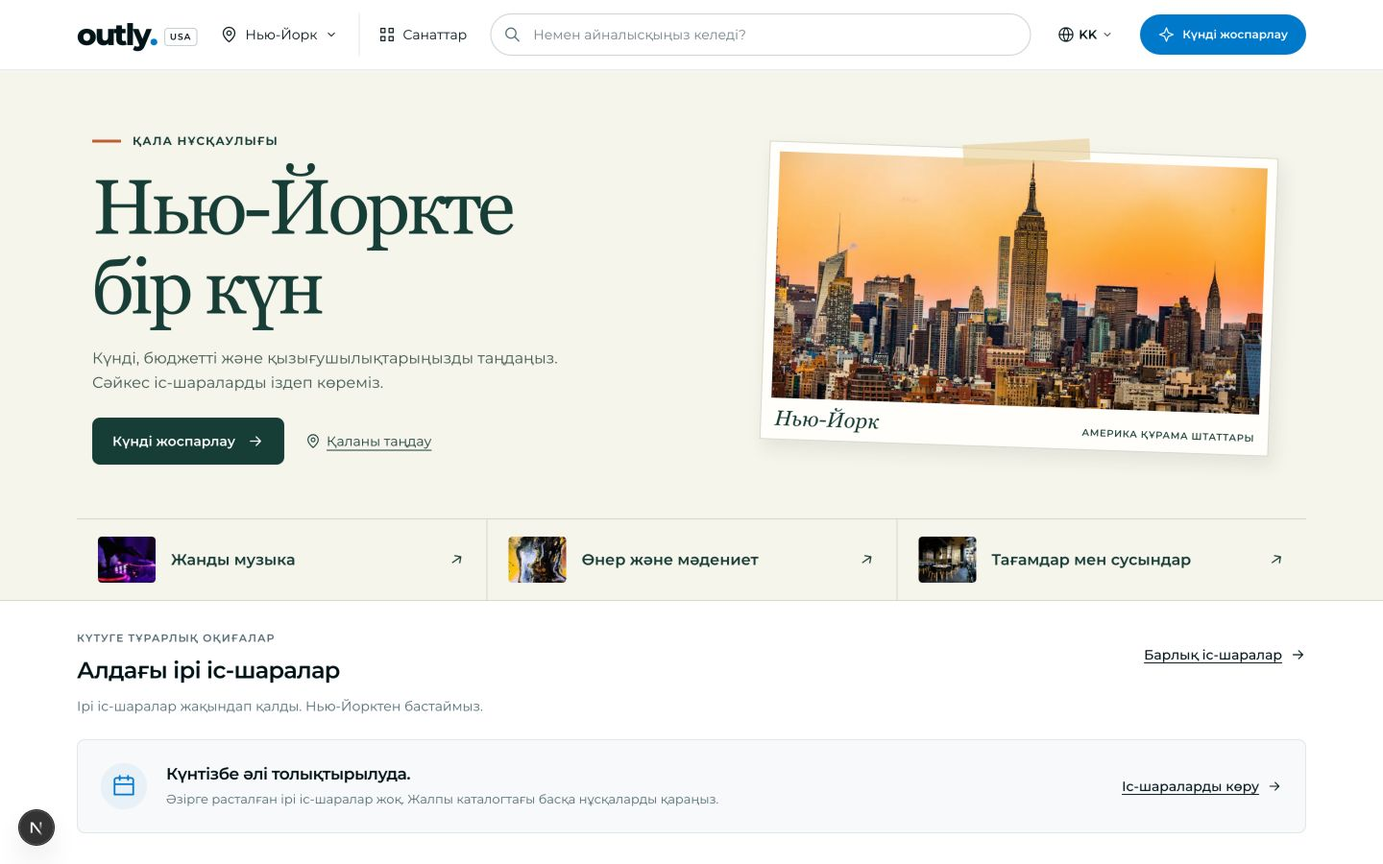
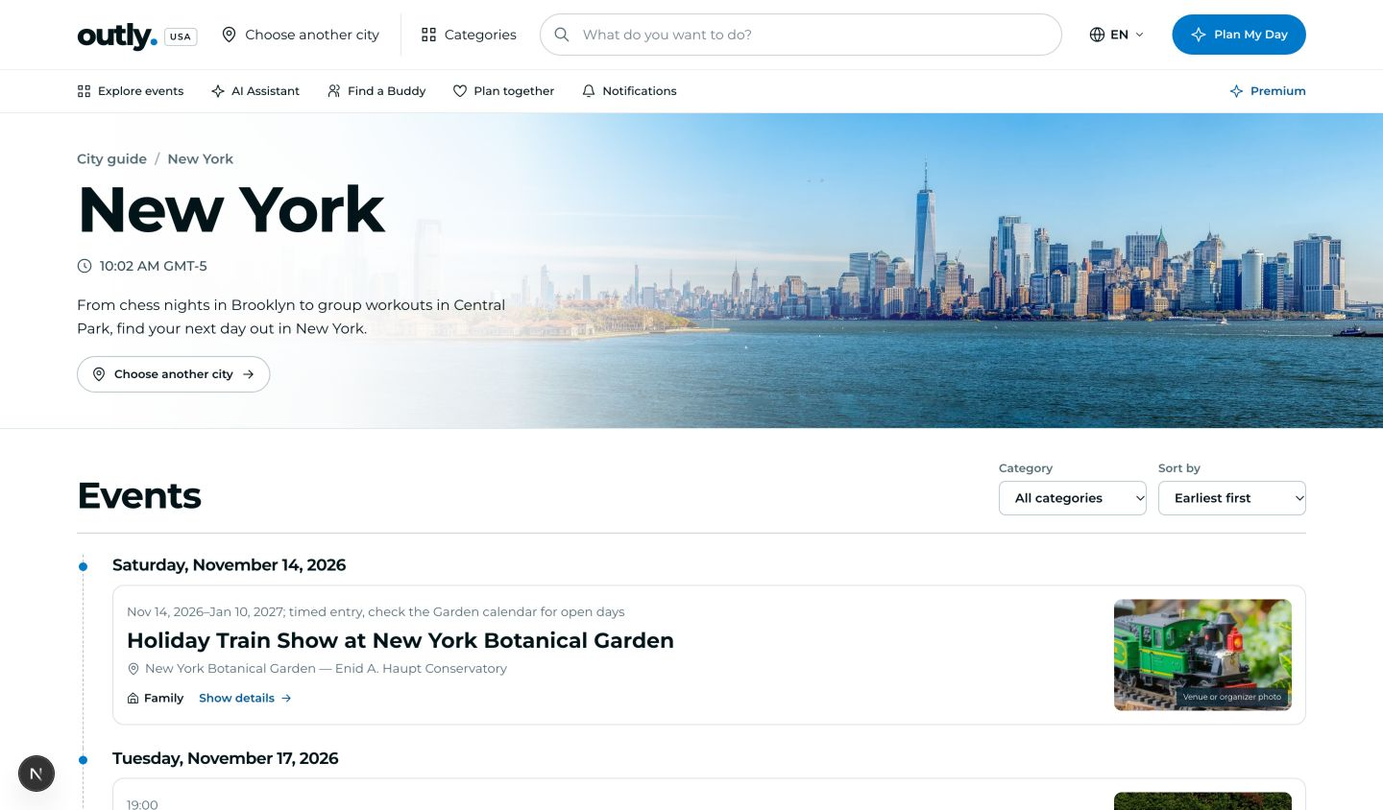
docs: document MVP2 flows and refresh screenshots

diff --git a/frontend/docs/mvp2.md b/frontend/docs/mvp2.md
@@ -1,0 +1,56 @@
+# MVP 2.0 — совместные планы и уведомления
+
+Реализованы четыре гостевых сценария из технического задания: подбор по тексту, Event Buddy, Pair Planning и Premium alerts. Интерфейс использует существующие цвета, Montserrat, карточки и кнопки проекта. Русский остаётся языком по умолчанию; доступны английский и казахский.
+
+## Как проверить
+
+Запустите `npm run dev`, откройте `/premium` и нажмите Try Premium Demo. Оплата не подключена: тариф $9.99/month показан как проверяемая гипотеза, демо не списывает деньги и не продлевается. Доступ проверяется сервером для каждой гостевой сессии.
+
+- `/assistant`: чат вместо формы фильтров. Напишите `NYC, free games this Thursday` — реальные события, ссылка на детали и официальная ссылка появляются сразу в ответе. Можно начать с `New York`, затем уточнить `games this Thursday` и `free only`: город, интересы, даты и бюджет сохраняются в контексте. Чат уточняет недостающие или неоднозначные условия, а при отсутствии совпадений честно предлагает изменить запрос. Enter отправляет, Shift+Enter добавляет строку. История сохраняется в текущей вкладке; New chat начинает новый диалог. Используется локальный разбор текста на английском, русском и казахском, без внешнего LLM. Гостю доступен один успешный чат за семь дней, Premium Demo — до 50 новых чатов за сутки. В одном чате можно получить до 30 подборок в течение 24 часов, уточнения не расходуют новую недельную попытку.
+- `/pair/new`: имя, New York, Games, даты на ближайшие 30 дней, любой бюджет и любое время. Создайте приглашение и откройте Open partner's window. Во втором окне укажите независимые предпочтения, поставьте Like на одном событии с обеих сторон. Итог сохраняется. Приглашение одноразовое, действует 48 часов, закрытие плана отзывает его. Без Premium можно создать один пробный план.
+- `/buddy`: выберите событие, создайте демо-заявку с подтверждением 18+. Во втором независимом окне включите Premium Demo, откройте то же событие, отправьте отклик. Автор может принять или отклонить его; участник — отменить отклик. Доступны закрытие, Report и Block. Реальных профилей, проверки личности и личных контактов нет; публичные email, телефоны, ссылки и social handles запрещены.
+- `/settings/alerts`: выберите Games, New York и Instant, сохраните. На `/notifications` нажмите Check new events. Проверенные события вводятся в отдельную демо-ленту, основной каталог не меняется. Совпадения создают уведомления с отметкой Demo; другая категория — нет. Повторная проверка не дублирует одно событие. Mark as read уменьшает счётчик, Pause alerts останавливает новые оповещения.
+
+Приглашение следует открывать в отдельной вкладке через предоставленную ссылку с `noopener` либо в другом браузере. В одной вкладке сохраняется одна роль. Если браузер запрещает sessionStorage, роль живёт в памяти до перезагрузки.
+
+В каталоге есть не все сочетания категорий, городов и дат. Например, Music + New York может вернуть пустой результат. Неизвестная цена не считается нулевой. Запись без подтверждённого времени не проходит конкретный фильтр morning/afternoon/evening. Пары используют пересечение дат и времени, меньший из двух бюджетов и только реальные ID каталога; несовпадение интересов отмечается как компромисс.
+
+## API и хранение
+
+Существующие `/api/events`, `/api/plan`, `/api/health` сохраняют интеграцию с `API_PROXY_ORIGIN`. Новые `/api/ai/*` и `/api/demo/*` обрабатываются локально; текущий внешний backend их не обязан поддерживать.
+
+Каталог принимает необязательный `GET /api/events?budgetMax=25` в USD: `0` — только известная бесплатная цена, отсутствие параметра — без ограничения. Фильтр применяется до пагинации вместе с городом, датой и категорией. Внешний events backend должен поддержать этот параметр при подключении через proxy; в SerpApi live-поиске выбор бюджета отключён.
+
+`POST /api/demo/session` выдаёт случайный токен. Браузер передаёт его в `Authorization: Bearer ...`, хранит в sessionStorage отдельной вкладки. На сервере сохраняется только хэш. Ответы имеют `Cache-Control: no-store`. Подписка, авторство заявок, участие в паре и право читать уведомления проверяются на сервере; изменение клиентского JS не выдаёт доступ. Ограничены размеры запросов, длина текстов и частота действий.
+
+Основные локальные API:
+
+| Путь | Действия |
+| --- | --- |
+| `/api/ai/chat` | POST сообщения с preferences, pendingFields и необязательным серверным conversationId; ответ с уточнениями или готовыми событиями |
+| `/api/ai/parse`, `/api/ai/recommend` | Сохранённые POST разбора и подбора для совместимости |
+| `/api/demo/subscription` | GET состояния; POST activate/deactivate |
+| `/api/demo/buddy/posts` | GET списка; POST публикации |
+| `/api/demo/buddy/posts/:id/requests` | POST отклика |
+| `/api/demo/buddy/requests/:id/decision` | POST ACCEPTED/DECLINED |
+| `/api/demo/buddy/requests/:id/cancel` | POST отмены |
+| `/api/demo/buddy/posts/:id/close`, `/api/demo/safety` | POST закрытия, жалобы или блокировки |
+| `/api/demo/pair/sessions`, `/api/demo/pair/join` | POST создания и присоединения |
+| `/api/demo/pair/:id`, `/votes`, `/close` | GET состояния; POST голосования/закрытия |
+| `/api/demo/alerts/preferences` | GET/PUT настроек |
+| `/api/demo/alerts/check` | POST проверки демо-ленты |
+| `/api/demo/notifications`, `/:id/read` | GET списка; PATCH прочтения |
+
+Демо-данные сохраняются атомарно в `.outly-demo/state.json`, каталог исключён из git. Для изолированных проверок можно задать `OUTLY_DEMO_DIR`. Это постоянное хранилище одного локального сервера с доступным для записи диском. Перед несколькими процессами или serverless-развёртыванием нужен общий транзакционный backend; JWT, Supabase Auth и реальная подписка здесь не имитируются.
+
+Daily/Weekly откладывают доставку на 24 часа/7 дней. После наступления срока уведомления видны при запросе центра уведомлений. Отдельного cron, email, Stripe и внешнего AI нет. При паузе или завершении Premium Demo отложенные доставки отменяются, уже доставленная история сохраняется. Интерфейс обновляет социальное состояние каждые пять секунд, счётчик уведомлений — каждые 15 секунд в активной вкладке.
+
+## Проверки
+
+`npm test`, `npm run typecheck`, `npm run build`. Тесты новых сценариев находятся в `tests/social.test.ts`, `tests/assistant.test.ts` и `tests/demo-api.test.ts`.
+
+Проверка 14 ноября 2026: 68 автоматических тестов прошли. В браузере пройдены текстовый поиск с реальным результатом, две независимые роли Pair и взаимный Like, публикация/отклик/принятие Buddy, сохранение настроек после reload, создание уведомления, отсутствие дубля и уменьшение unread count после прочтения. Проверены RU/KK переключение, все шесть новых разделов на 320px и бюджет каталога на 320/375/1440px; ошибок JavaScript и горизонтального скролла не обнаружено.
+
+После замены формы помощника на чат: 84 теста, production build и typecheck проходят. В браузере проверены диалог из нескольких сообщений, уточнение бюджета без второй недельной попытки, прямое открытие деталей события, официальные ссылки в ответе, сохранение истории, пустая выдача и повтор после сетевой ошибки без дублирования сообщения. Чат проверен на 320/375/768/1440px и при переключении RU/KK.
+
+Публикация, push, реальные платежи, email и подключение внешних аккаунтов не выполнялись.

diff --git a/frontend/README.md b/frontend/README.md
@@ -1,5 +1,7 @@
 # Outly USA Frontend
 
+MVP 2.0: добавлены текстовый Assistant, Event Buddy, совместные планы по приглашению, Premium Demo и персональные in-app уведомления. [Сценарии проверки, API и ограничения](docs/mvp2.md). Существующий каталог и Planner сохранены.
+
 Фронтенд MVP по ТЗ Business Cup: гость выбирает интересы, дату и бюджет в New York, получает рекомендации от API и переходит к деталям реальных событий. Next.js App Router, TypeScript, React и Tailwind CSS 4. Интерфейс доступен на русском (по умолчанию), английском и казахском. Язык можно сменить в шапке; выбор сохраняется в cookie. Названия и описания событий отображаются на языке источника.
 
 Реализован объём FE-01–FE-07: общие стили и навигация, главная, четырёхшаговый Planner, результаты, Explore с фильтрами и пагинацией, детали события, адаптивность и состояния loading / empty / error. Форму можно пройти без аккаунта; ошибки API сохраняют предпочтения и позволяют повторить запрос.
@@ -31,9 +33,9 @@ npm run dev
 
 ## Проверенный каталог
 
-`src/data/catalog.json` содержит 78 вручную проверенных событий и регулярных программ: 18 категорий, все 50 штатов, Washington DC и 60 городов. Проверка первоисточников — 14 ноября 2026. Вымышленные события из присланных demo-файлов не используются; из файла категорий сохранена таксономия с сопоставлением `games → gaming`, `food-drinks → food`, `arts-culture → art`.
+`src/data/catalog.json` содержит 82 вручную проверенных событий и регулярных программ: 18 категорий, все 50 штатов, Washington DC и 60 городов. Проверка первоисточников — 14 ноября 2026. Вымышленные события из присланных demo-файлов не используются; из файла категорий сохранена таксономия с сопоставлением `games → gaming`, `food-drinks → food`, `arts-culture → art`.
 
-У каждой записи есть официальный `sourceUrl`, `lastVerifiedAt`, `evidenceUrl` и краткое основание проверки `evidenceNote`. Все 78 изображений лежат в `public/catalog`; исходные ссылки сохранены в `imageSourceUrl`. Фото площадки, организатора или прошлой редакции помечаются `imageIsIllustration`. На карточке доступны внутренние детали и отдельная ссылка на официальный сайт.
+У каждой записи есть официальный `sourceUrl`, `lastVerifiedAt`, `evidenceUrl` и краткое основание проверки `evidenceNote`. Изображения каталога лежат в `public/catalog`; исходные ссылки сохранены в `imageSourceUrl`. Фото площадки, организатора или прошлой редакции помечаются `imageIsIllustration`. Нажатие на карточку открывает страницу события с официальной ссылкой.
 
 Фильтры идут в порядке категория → штат → город → дата. По умолчанию открыт весь каталог, поэтому каждая категория доступна без привязки к Нью-Йорку. Числа в списках показывают количество записей; в справочнике городов показываются только города с проверенными событиями. Washington DC доступен в списке отдельно от 50 штатов карты.
 
@@ -102,7 +104,7 @@ npm run build
 
 На главной доступны проверенные события, все 18 категорий и навигация «штат → город». Категории открывают весь каталог; карта и справочник — проверенные записи выбранного штата/города. Ограничение Coming soon для каталога удалено; live-поиск остаётся отдельной возможностью Нью-Йорка.
 
-После главного баннера блоки идут в порядке: проверенные события → категории событий → интерактивная карта США. На карте подписаны все 50 штатов; Alaska / Hawaii показаны отдельными вставками. Карта и фильтр штата синхронизированы: выбор обновляет готовый список городов и сбрасывает фильтр города на «Все города». Выбор конкретного города оставляет в каталоге только его карточку. Штаты доступны мышью и клавишами Enter / Space; на узких экранах карту можно прокручивать горизонтально или пользоваться фильтром. Контуры сохранены локально из [US Atlas 3.0.1](https://github.com/topojson/us-atlas) в проекции Albers USA; лицензия — `public/maps/LICENSE-us-atlas.txt`. Внешний картографический сервис и API-ключ не требуются.
+После панорамы Нью-Йорка идут редакционная подборка Trending in New York, ближайшие события на 30 дней, категории и встречи Meet someone new. Для открытых встреч в каталоге используется признак `isSocial`. Карта расположена непосредственно перед футером. На карте подписаны все 50 штатов; Alaska / Hawaii показаны отдельными вставками. Карта и фильтр штата синхронизированы: выбор обновляет готовый список городов и сбрасывает фильтр города на «Все города». Выбор конкретного города оставляет в каталоге только его карточку. Штаты доступны мышью и клавишами Enter / Space; на узких экранах карту можно прокручивать горизонтально или пользоваться фильтром. Контуры сохранены локально из [US Atlas 3.0.1](https://github.com/topojson/us-atlas) в проекции Albers USA; лицензия — `public/maps/LICENSE-us-atlas.txt`. Внешний картографический сервис и API-ключ не требуются.
 
 Категории Family, Books, Games, Technology, Food & Drinks, AI, Running, Arts & Culture, Climate, Fitness, Wellness, Crypto доступны вместе с прежними Music, Sports, Theater, Outdoors, Nightlife, Comedy. Нажатие категории открывает `/explore?category=...`; те же ID доступны Planner. Backend должен принять новые ID `family`, `books`, `ai`, `running`, `climate`, `fitness`, `wellness`, `crypto`. Картинки категорий сохранены в `public/categories` из предоставленных пользователем ссылок Luma; Family — со [страницы категории](https://luma.com/family?k=t).
 
@@ -112,7 +114,7 @@ npm run build
 
 Главная, навигация, каталог, карточки, состояния и Planner оформлены по [Fever London](https://feverup.com/en/london): Montserrat, белые поверхности, синие акценты, кнопки с круглым контуром, фотоблок города и чипы интересов. [Разбор референса](docs/fever-design.md) содержит точные значения цветов, размеров, источники шрифта и фотографий. Montserrat хранится локально в `public/fonts` с лицензией OFL; запросов к Google Fonts из браузера нет.
 
-Поиск в шапке открывает `/explore?q=...` и передаёт Events API необязательный query `keyword` (до 100 символов). Backend должен применить этот фильтр к событиям. Фотографии обзорных карточек обозначают категории, а не конкретные мероприятия. Настоящие события, цены и рекомендации по-прежнему приходят только из API.
+Поиск в шапке открывает `/explore?q=...` и передаёт Events API необязательный query `keyword` (до 100 символов). Backend должен применить этот фильтр к событиям. Карточки подборок показывают фотографии из записей событий. Настоящие события, цены и рекомендации по-прежнему приходят только из API.
 
 ## Что отложено
 
